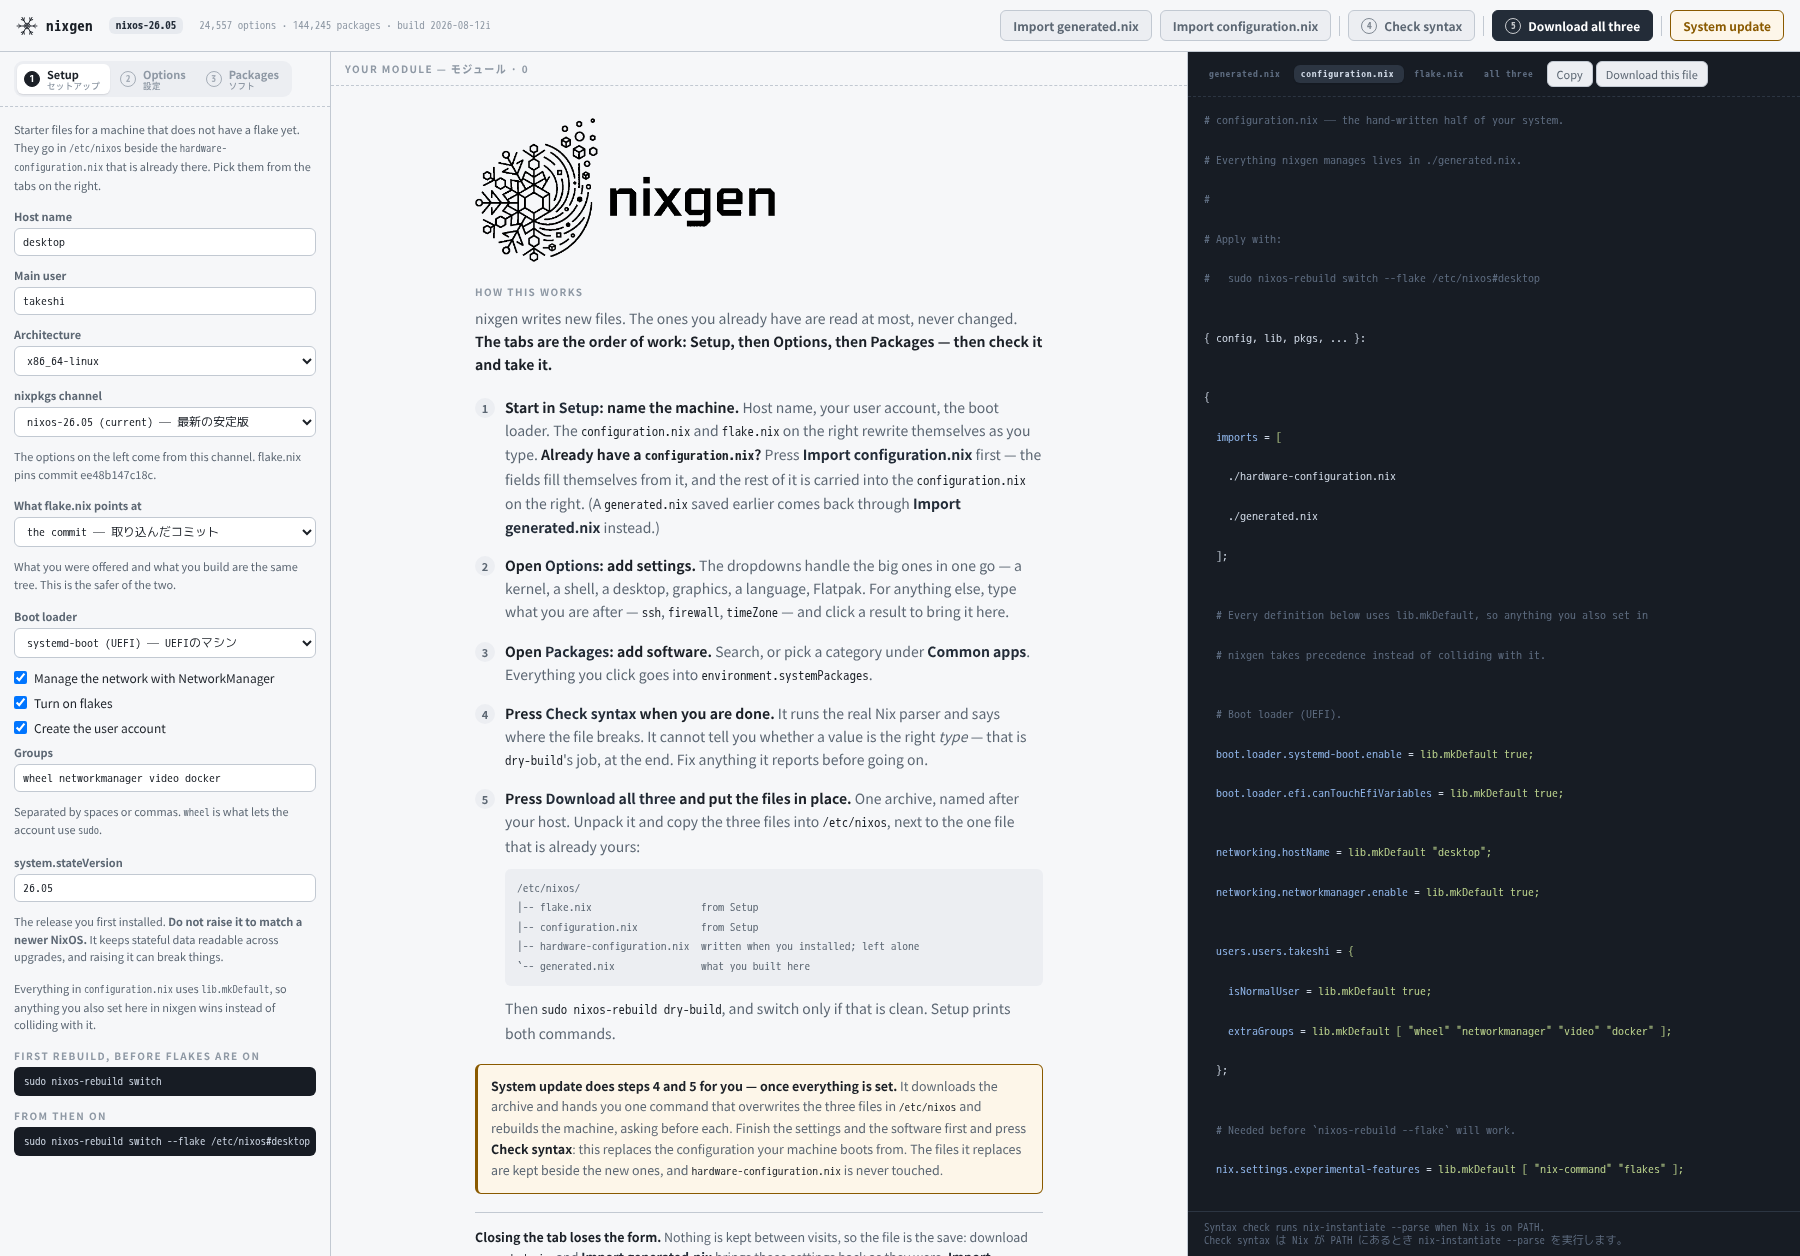
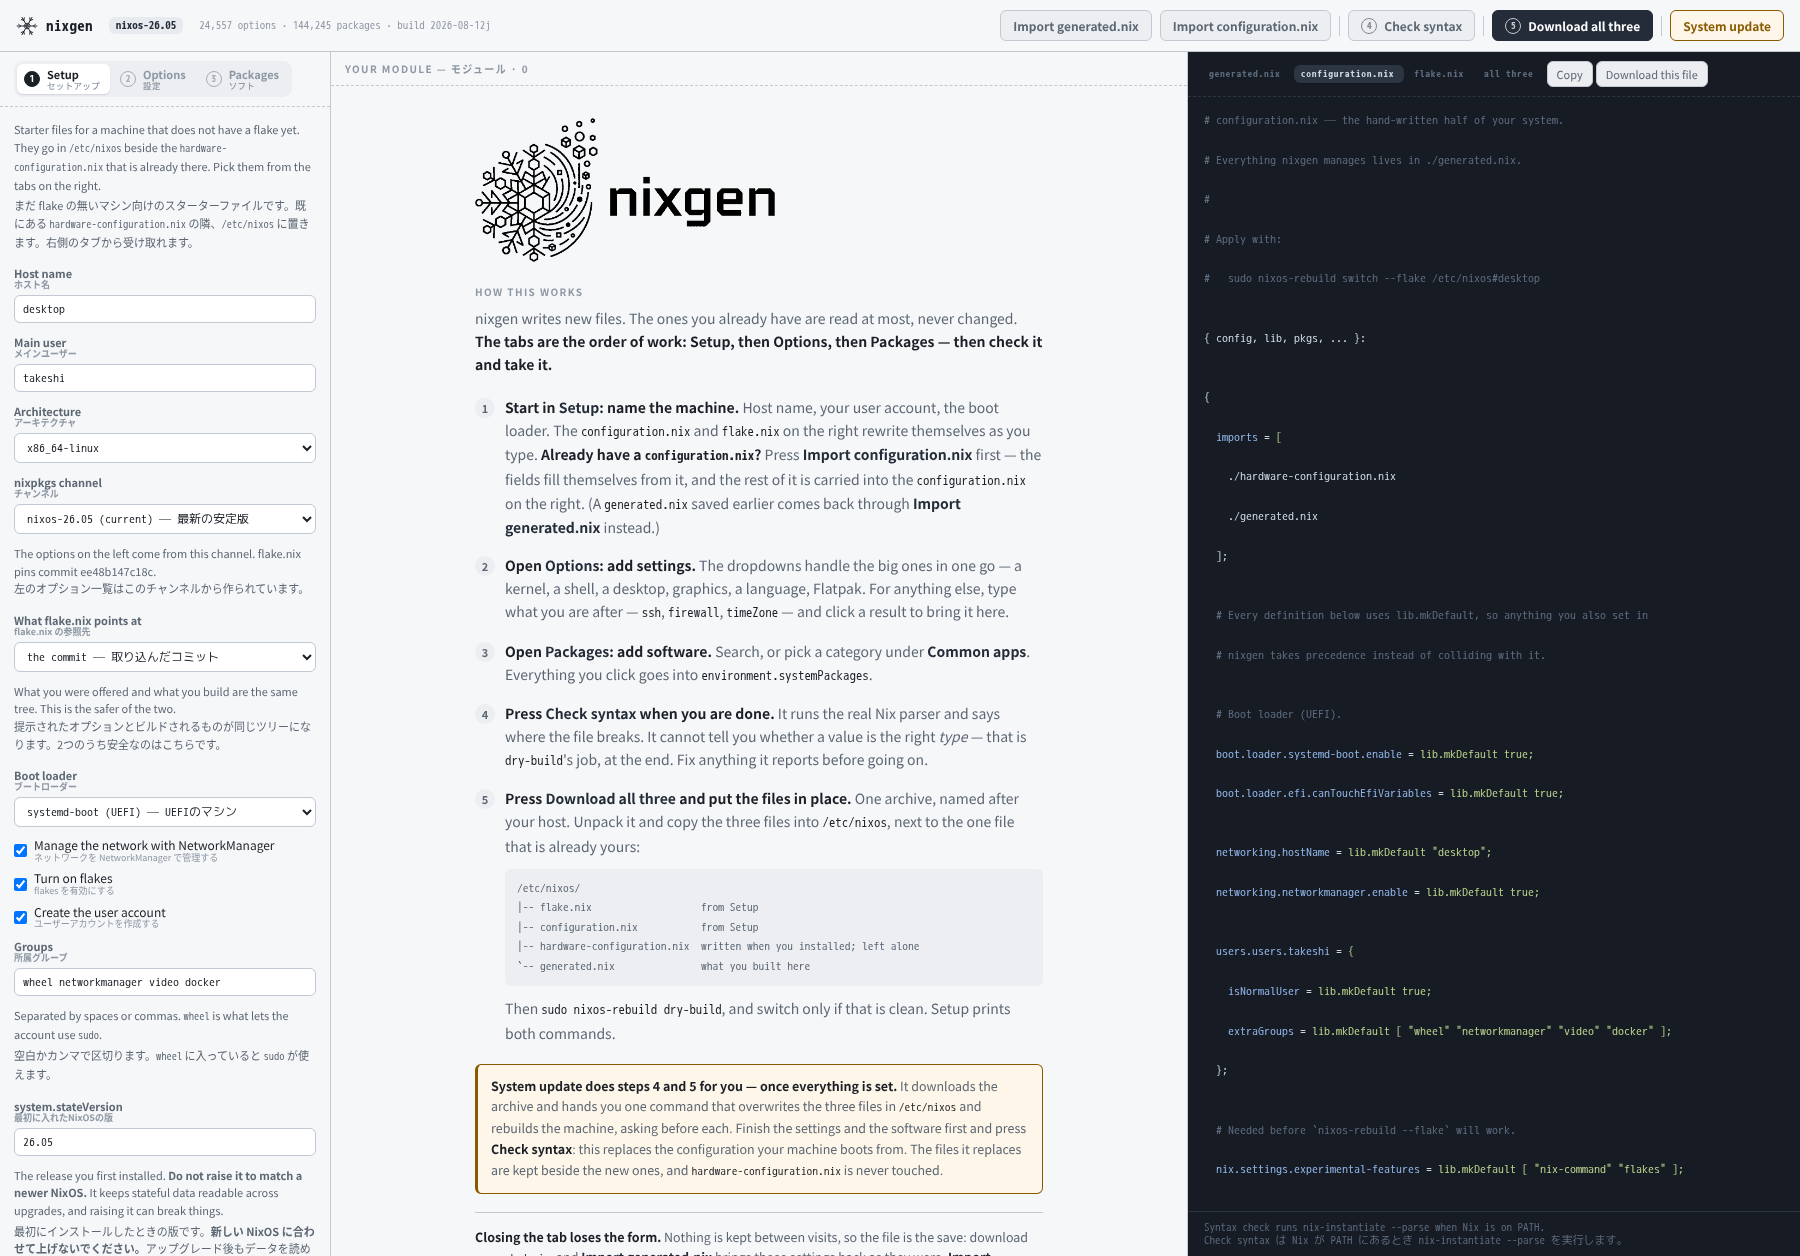
Say everything on the Setup tab in both languages
The intro, every field label (stacked like the preset rows), the three
checkboxes, the notes under Groups, GRUB, system.stateVersion and
lib.mkDefault, the two rebuild-command headings — and the dynamic
messages: the channel and pin notes in all their variants, the
leftover-index note, the host/user/stateVersion warnings, and the
rebuild/switch/build button labels.

One rendering rule came out of it: only the notes app.js writes render
\n as a line break. The static ones are wrapped in the HTML source, and
pre-line on them turned that wrapping into hard breaks mid-sentence —
scoped to the dynamic ids and .warn instead.

Changed region(s): [[0.0, 0.1553, 0.1867, 1.0]]

diff --git a/build/static/index.html b/build/static/index.html
@@ -233,19 +233,20 @@
           <p class="note">Starter files for a machine that does not have a flake
              yet. They go in <code>/etc/nixos</code> beside the
              <code>hardware-configuration.nix</code> that is already there.
-             Pick them from the tabs on the right.</p>
-          <label>Host name<input type="text" id="s-host" value="nixos" spellcheck="false"></label>
+             Pick them from the tabs on the right.
+             <span class="ja">まだ flake の無いマシン向けのスターターファイルです。既にある <code>hardware-configuration.nix</code> の隣、<code>/etc/nixos</code> に置きます。右側のタブから受け取れます。</span></p>
+          <label><span class="plabel">Host name<i>ホスト名</i></span><input type="text" id="s-host" value="nixos" spellcheck="false"></label>
           <p class="warn" id="s-host-warn" hidden></p>
-          <label>Main user<input type="text" id="s-user" value="user" spellcheck="false"></label>
+          <label><span class="plabel">Main user<i>メインユーザー</i></span><input type="text" id="s-user" value="user" spellcheck="false"></label>
           <p class="warn" id="s-user-warn" hidden></p>
-          <label>Architecture
+          <label><span class="plabel">Architecture<i>アーキテクチャ</i></span>
             <select id="s-system" class="notranslate" translate="no">
               <option value="x86_64-linux">x86_64-linux</option>
               <option value="aarch64-linux">aarch64-linux</option>
             </select>
           </label>
 
-          <label>nixpkgs channel
+          <label><span class="plabel">nixpkgs channel<i>チャンネル</i></span>
             <select id="s-release" class="notranslate" translate="no"></select>
           </label>
           <p class="note" id="s-release-note"></p>
@@ -254,7 +255,7 @@
           <p class="note" id="s-unused" hidden></p>
           <button class="btn" id="btn-prune" hidden></button>
 
-          <label>What flake.nix points at
+          <label><span class="plabel">What flake.nix points at<i>flake.nix の参照先</i></span>
             <select id="s-pin" class="notranslate" translate="no">
               <option value="branch">the branch — チャンネルのブランチ</option>
               <option value="commit">the commit — 取り込んだコミット</option>
@@ -262,45 +263,49 @@
           </label>
           <p class="note" id="s-pin-note"></p>
 
-          <label>Boot loader
+          <label><span class="plabel">Boot loader<i>ブートローダー</i></span>
             <select id="s-bootloader" class="notranslate" translate="no">
               <option value="systemd-boot">systemd-boot (UEFI) — UEFIのマシン</option>
               <option value="grub">GRUB (BIOS / legacy) — 古いBIOSのマシン</option>
               <option value="none">none (set it elsewhere) — 他で設定する</option>
             </select>
           </label>
-          <label id="s-grub-wrap" hidden>Disk for GRUB
+          <label id="s-grub-wrap" hidden><span class="plabel">Disk for GRUB<i>GRUBを入れるディスク</i></span>
             <input type="text" id="s-grub-device" value="/dev/sda" spellcheck="false">
           </label>
           <p class="note" id="s-grub-note" hidden>The whole disk, not a partition —
-             <code>/dev/sda</code>, not <code>/dev/sda1</code>.</p>
+             <code>/dev/sda</code>, not <code>/dev/sda1</code>.
+             <span class="ja">パーティションではなくディスク全体を指定します。<code>/dev/sda1</code> ではなく <code>/dev/sda</code> です。</span></p>
 
           <label class="check"><input type="checkbox" id="s-networkmanager" checked>
-            Manage the network with NetworkManager</label>
+            <span class="plabel">Manage the network with NetworkManager<i>ネットワークを NetworkManager で管理する</i></span></label>
           <label class="check"><input type="checkbox" id="s-flakes" checked>
-            Turn on flakes</label>
+            <span class="plabel">Turn on flakes<i>flakes を有効にする</i></span></label>
           <label class="check"><input type="checkbox" id="s-make-user" checked>
-            Create the user account</label>
+            <span class="plabel">Create the user account<i>ユーザーアカウントを作成する</i></span></label>
 
-          <label id="s-groups-wrap">Groups
+          <label id="s-groups-wrap"><span class="plabel">Groups<i>所属グループ</i></span>
             <input type="text" id="s-groups" value="wheel networkmanager" spellcheck="false">
           </label>
           <p class="note" id="s-groups-note">Separated by spaces or commas.
-             <code>wheel</code> is what lets the account use <code>sudo</code>.</p>
+             <code>wheel</code> is what lets the account use <code>sudo</code>.
+             <span class="ja">空白かカンマで区切ります。<code>wheel</code> に入っていると <code>sudo</code> が使えます。</span></p>
 
-          <label>system.stateVersion
+          <label><span class="plabel notranslate" translate="no">system.stateVersion<i>最初に入れたNixOSの版</i></span>
             <input type="text" id="s-state" value="" spellcheck="false">
           </label>
           <p class="warn" id="s-state-warn" hidden></p>
           <p class="note">The release you first installed. <b>Do not raise it to match
              a newer NixOS.</b> It keeps stateful data readable across upgrades, and
-             raising it can break things.</p>
+             raising it can break things.
+             <span class="ja">最初にインストールしたときの版です。<b>新しい NixOS に合わせて上げないでください。</b>アップグレード後もデータを読めるようにするための値で、上げると壊れることがあります。</span></p>
           <p class="note">Everything in <code>configuration.nix</code> uses
              <code>lib.mkDefault</code>, so anything you also set here in nixgen
-             wins instead of colliding with it.</p>
-          <div class="eyebrow">First rebuild, before flakes are on</div>
+             wins instead of colliding with it.
+             <span class="ja"><code>configuration.nix</code> の設定はすべて <code>lib.mkDefault</code> なので、nixgen 側で同じ項目を設定しても衝突せず、こちらが優先されます。</span></p>
+          <div class="eyebrow">First rebuild, before flakes are on — 初回(flakes 有効化前)</div>
           <pre class="shell" id="s-cmd1">sudo nixos-rebuild switch</pre>
-          <div class="eyebrow">From then on</div>
+          <div class="eyebrow">From then on — 2回目以降</div>
           <pre class="shell" id="s-cmd2">sudo nixos-rebuild switch --flake /etc/nixos#nixos</pre>
         </div>
       </div>

diff --git a/build/static/app.js b/build/static/app.js
@@ -2,7 +2,7 @@
 
 /* Shown in the header. Bump it whenever this file changes, so "the fix did not
    work" can be told apart from "the old file is still being served". */
-const BUILD = '2026-08-12i';
+const BUILD = '2026-08-12j';
 
 const $  = (s, r = document) => r.querySelector(s);
 const $$ = (s, r = document) => [...r.querySelectorAll(s)];
@@ -265,6 +265,11 @@ async function loadReleases() {
    use — it grows by one file, about 37 MB, for each channel that has ever
    been picked and has since dropped off. Nothing else would ever remove them,
    and until now nothing said they were there. */
+/* The dynamic Setup notes carry both languages the way the status bar does:
+   the Japanese is one appended line (white-space: pre-line renders the \n),
+   composed as a whole sentence rather than mirrored fragment by fragment. */
+function jaLine(node, text) { node.append('\n' + text); }
+
 function syncUnused() {
   const note = $('#s-unused');
   const btn = $('#btn-prune');
@@ -282,8 +287,10 @@ function syncUnused() {
   });
   note.append(`, taking ${mb} MB. Nothing here can select ${many ? 'them' : 'it'} ` +
               `any more, and rebuilding is all it takes to get ${many ? 'them' : 'it'} back.`);
+  jaLine(note, `${many ? list.length + '個の' : ''}索引が残っています(計${mb} MB)。` +
+               `もうここから選ぶことはできず、必要になれば再構築で戻せます。`);
   btn.hidden = false;
-  btn.textContent = `Remove ${many ? 'them' : 'it'} (${mb} MB)`;
+  btn.textContent = `Remove ${many ? 'them' : 'it'} (${mb} MB) — 削除する`;
 }
 
 $('#btn-prune').addEventListener('click', async () => {
@@ -355,17 +362,22 @@ function syncPin() {
       : 'flake.lock still pins your first build, so it can be repeated. But the ' +
         'branch moves on, and a setting you picked here may not be in what you ' +
         'build later.');
+    jaLine(note, daily
+      ? 'flake.lock は初回ビルドを固定しますが、unstable は明日には別のツリーです。左のオプションとビルド結果は数日でずれます。両者を一致させるのはコミット指定のほうです。'
+      : 'flake.lock は初回ビルドを固定するので再現できます。ただしブランチは進むため、ここで選んだ設定が後のビルドに無いことがあります。');
     return;
   }
   if (state.starter.revision) {
     note.className = 'note';
     note.append('What you were offered and what you build are the same tree. ' +
                 'This is the safer of the two.');
+    jaLine(note, '提示されたオプションとビルドされるものが同じツリーになります。2つのうち安全なのはこちらです。');
     return;
   }
   note.className = 'warn';
   note.append('No commit was available, so flake.nix names the branch instead. ' +
               'Building the index for this release records one.');
+  jaLine(note, 'コミットが取得できなかったため、flake.nix はブランチを指します。このリリースの索引を作るとコミットが記録されます。');
 }
 
 /* The flake follows one channel; the options you are picking from come from the
@@ -395,8 +407,14 @@ function syncRelease() {
         ? ' Unstable has moved since; rebuild before trusting the list.'
         : ' Worth rebuilding.');
     }
+    jaLine(note, `左のオプション一覧はこのチャンネルから作られています。` +
+      (state.ageDays == null ? '' :
+        `一覧の公開は${state.ageDays === 0 ? '今日' : state.ageDays === 1 ? '昨日' : state.ageDays + '日前'}です。`) +
+      (state.stale ? (want === state.unstable
+        ? 'その後 unstable は動いています。作り直してから信用してください。'
+        : '作り直す価値があります。') : ''));
     btn.hidden = !state.stale;
-    btn.textContent = `Rebuild the ${want} index`;
+    btn.textContent = `Rebuild the ${want} index — 索引を作り直す`;
     return;
   }
   note.className = 'note';
@@ -405,10 +423,11 @@ function syncRelease() {
   note.append(', but the options on the left are still from ');
   note.append(ident(state.indexed));
   note.append('.');
+  jaLine(note, `左のオプション一覧はまだ ${state.indexed} のものです。`);
   btn.hidden = false;
   btn.textContent = ready
-    ? `Switch the options to ${want}`
-    : `Build the ${want} index (a few minutes)`;
+    ? `Switch the options to ${want} — 一覧を切り替える`
+    : `Build the ${want} index (a few minutes) — 索引を作る(数分)`;
 }
 
 $('#s-release').addEventListener('change', () => {
@@ -495,7 +514,8 @@ function checkName(id, fallback) {
   input.classList.toggle('bad', !ok);
   warn.hidden = ok;
   if (!ok) warn.textContent =
-    `Letters, digits, - and _ only, starting with a letter. Using "${fallback}" for now.`;
+    `Letters, digits, - and _ only, starting with a letter. Using "${fallback}" for now.\n` +
+    `使えるのは英字・数字・-・_ で、先頭は英字です。いまは "${fallback}" を使っています。`;
   return ok;
 }
 
@@ -517,7 +537,8 @@ function checkStateVersion() {
   const ok = /^\d\d\.\d\d$/.test(input.value.trim());
   input.classList.toggle('bad', !ok);
   warn.hidden = ok;
-  if (!ok) warn.textContent = 'Two digits, a dot, two digits — 26.05. Falling back for now.';
+  if (!ok) warn.textContent = 'Two digits, a dot, two digits — 26.05. Falling back for now.\n' +
+    '数字2桁・ドット・数字2桁の形式です(例: 26.05)。いまは既定値を使っています。';
 }
 
 async function loadStarter() {

diff --git a/build/static/app.css b/build/static/app.css
@@ -543,3 +543,13 @@ pre.nix .clash { border-left: 2px solid #a34545; margin-left: -2px; padding-left
 .btn:focus-visible, .tab:focus-visible {
   outline: 2px solid var(--accent); outline-offset: 2px;
 }
+
+/* The Setup notes carry an appended Japanese line (static ones as a .ja span,
+   dynamic ones as a \n from jaLine) — both render as their own line. */
+.setupform .note .ja { display: block; margin-top: 3px; }
+/* Only the notes that app.js writes need \n rendered; the static ones are
+   wrapped in the HTML source, and pre-line would turn that wrapping into
+   hard breaks mid-sentence. */
+#s-release-note, #s-pin-note, #s-unused, #s-release-progress,
+.setupform .warn { white-space: pre-line; }
+.setupform .btn { white-space: normal; text-align: left; }

diff --git a/CHANGELOG.md b/CHANGELOG.md
@@ -9,6 +9,19 @@ option counts.
 
 ## English
 
+### build 2026-08-12j
+
+- **Everything the Setup tab says is bilingual now.** The intro, every field
+  label (stacked, the way the preset rows are), the three checkboxes, the
+  notes under Groups, GRUB, `system.stateVersion` and `lib.mkDefault`, the two
+  rebuild-command headings — and the dynamic messages too: the channel and
+  pin notes in all their variants, the leftover-index note, the host, user and
+  stateVersion warnings, and the rebuild/switch/build button labels.
+- One rendering rule came out of it: only the notes app.js writes render
+  `\n` as a line break. The static ones are wrapped in the HTML source, and
+  applying `pre-line` to them turned that wrapping into hard breaks
+  mid-sentence.
+
 ### build 2026-08-12i
 
 A design pass: the same monochrome identity, with the order of work worn by
@@ -1246,6 +1259,11 @@ three of these six showed up in only one of the two.
 ---
 
 ## 日本語
+
+### build 2026-08-12j
+
+- **Setup タブの文言をすべて日英併記にしました。** 冒頭の説明、各入力欄のラベル(プリセット行と同じ二段表記)、チェックボックス3つ、Groups・GRUB・`system.stateVersion`・`lib.mkDefault` の注記、rebuild コマンドの見出し2つ — さらに**動的なメッセージも**: チャンネルと参照先の注記の全パターン、残った索引の案内、ホスト名・ユーザー名・stateVersion の警告、そして「索引を作り直す/一覧を切り替える/索引を作る」のボタンラベルです。
+- 途中で描画の規則がひとつ確定しました。`\n` を改行として描くのは **app.js が書く動的な注記だけ**です。静的な注記は HTML ソース内で折り返されており、そこに `pre-line` を当てると**ソースの折返しが文の途中の改行として出てしまいます**。
 
 ### build 2026-08-12i
 
